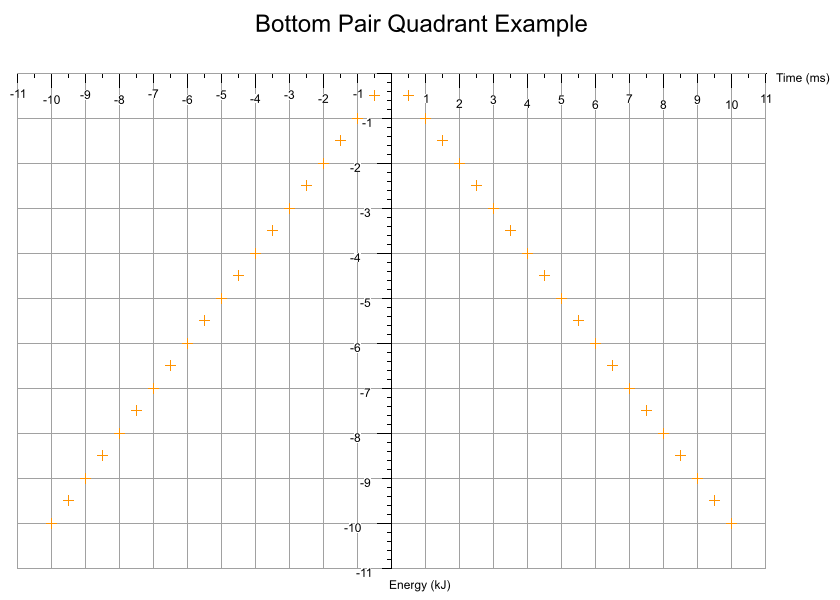
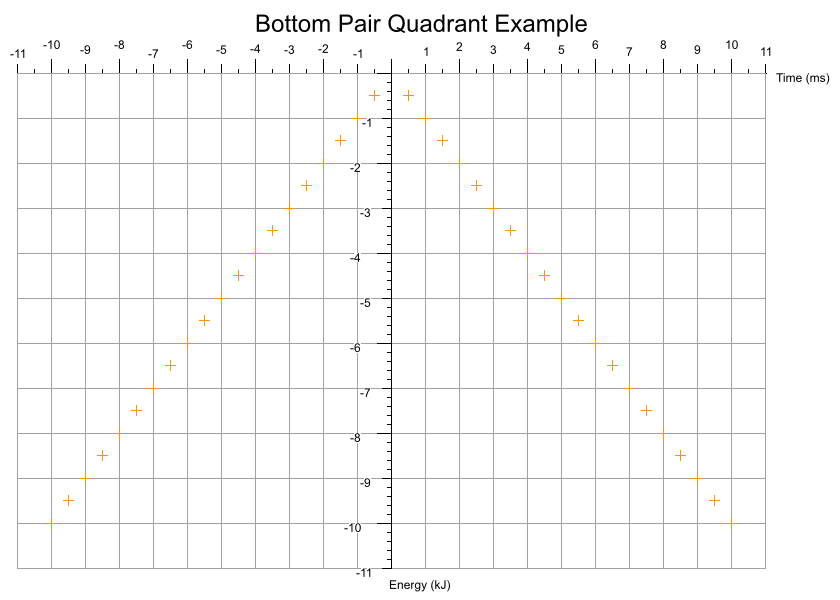
fix: x-axis scale markers now sit outside the axis in whitespace when negative y range is dominant

diff --git a/src/canvas/axes.rs b/src/canvas/axes.rs
@@ -804,10 +804,17 @@ fn draw_x_axis_scale_markings(
 				// Draw each even section slightly longer
 				let label_length_scale = if i & 1 == 1 { 2 } else { 3 };
 				for n in 0..(data_label_length * label_length_scale) {
-					// for n in 0..(data_label_length) {
+					// So that scale markers are not drawn on the graph area itself check which quadrant type
+					// and flip if necessary so they are drawn in the available whitespace outside the axis
+					let px = axis_origin_pixel.0 + (i * x_subdivision_length);
+					let py = if *quadrants == Quadrants::BottomPair {
+						axis_origin_pixel.1 - n
+					} else {
+						axis_origin_pixel.1 + n
+					};
 					canvas.put_pixel(
-						axis_origin_pixel.0 + (i * x_subdivision_length),
-						axis_origin_pixel.1 + n,
+						px,
+						py,
 						Rgba(BLACK),
 					);
 				}
@@ -817,7 +824,13 @@ fn draw_x_axis_scale_markings(
 					let text = (x_value_per_subdivision * i as f32).to_string();
 				let glyphs = create_glyphs(font_size, &text, &font);
 				let origin_x = axis_origin_pixel.0 + (i * x_subdivision_length);
-				let origin_y = axis_origin_pixel.1 + (data_label_length * label_length_scale);
+				// So that scale markers are not drawn on the graph area itself check which quadrant type
+				// and flip if necessary so they are drawn in the available whitespace outside the axis
+				let origin_y = if *quadrants == Quadrants::BottomPair {
+					axis_origin_pixel.1 - (data_label_length * label_length_scale) - (get_maximum_height_of_glyphs(&glyphs) * 3)
+				} else {
+					axis_origin_pixel.1 + (data_label_length * label_length_scale)
+				};
 				// let origin_y = origin_pixel.1 + (data_label_length);
 				let offset = get_x_axis_scale_label_offset(&glyphs, origin_x, origin_y);
 				trace!("Drawing x-axis label {} at {:?}", text, offset);
@@ -834,10 +847,17 @@ fn draw_x_axis_scale_markings(
 							for j in 1..=*mc {
 								let marker_spacing = x_subdivision_length / (mc + 1);
 								for n in 0..data_label_length {
+									let px = axis_origin_pixel.0
+									+ ((i * x_subdivision_length) + (j * marker_spacing));
+									// ensure mrkers are drawn in whitespace
+									let py = if *quadrants == Quadrants::BottomPair {
+										axis_origin_pixel.1 - n
+									} else {
+										axis_origin_pixel.1 + n
+									};
 									canvas.put_pixel(
-										axis_origin_pixel.0
-											+ ((i * x_subdivision_length) + (j * marker_spacing)),
-										axis_origin_pixel.1 + n,
+										px,
+										py,
 										Rgba(BLACK),
 									);
 								}
@@ -852,10 +872,17 @@ fn draw_x_axis_scale_markings(
 				// Draw each even section slightly longer
 				let label_length_scale = if i & 1 == 1 { 2 } else { 3 };
 				for n in 0..(data_label_length * label_length_scale) {
-					// for n in 0..(data_label_length) {
+					// So that scale markers are not drawn on the graph area itself check which quadrant type
+					// and flip if necessary so they are drawn in the available whitespace outside the axis
+					let px = axis_origin_pixel.0 - (i * x_subdivision_length);
+					let py = if *quadrants == Quadrants::BottomPair {
+						axis_origin_pixel.1 - n
+					} else {
+						axis_origin_pixel.1 + n
+					};
 					canvas.put_pixel(
-						axis_origin_pixel.0 - (i * x_subdivision_length),
-						axis_origin_pixel.1 + n,
+						px,
+						py,
 						Rgba(BLACK),
 					);
 				}
@@ -865,7 +892,13 @@ fn draw_x_axis_scale_markings(
 					let text =  (-x_value_per_subdivision * i as f32).to_string();
 				let glyphs = create_glyphs(font_size, &text, &font);
 				let origin_x = axis_origin_pixel.0 - (i * x_subdivision_length);
-				let origin_y = axis_origin_pixel.1 + (data_label_length * label_length_scale);
+				// So that scale markers are not drawn on the graph area itself check which quadrant type
+				// and flip if necessary so they are drawn in the available whitespace outside the axis
+				let origin_y = if *quadrants == Quadrants::BottomPair {
+					axis_origin_pixel.1 - (data_label_length * label_length_scale) - (get_maximum_height_of_glyphs(&glyphs) * 5)
+				} else {
+					axis_origin_pixel.1 + (data_label_length * label_length_scale)
+				};
 				// let origin_y = origin_pixel.1 + (data_label_length);
 				let offset = get_x_axis_scale_label_offset(&glyphs, origin_x, origin_y);
 				trace!("Drawing x-axis label {} at {:?}", text, offset);
@@ -882,10 +915,17 @@ fn draw_x_axis_scale_markings(
 							for j in 1..=*mc {
 								let marker_spacing = x_subdivision_length / (mc + 1);
 								for n in 0..data_label_length {
+									let px = axis_origin_pixel.0
+									- ((i * x_subdivision_length) + (j * marker_spacing));
+									// ensure mrkers are drawn in whitespace
+									let py = if *quadrants == Quadrants::BottomPair {
+										axis_origin_pixel.1 - n
+									} else {
+										axis_origin_pixel.1 + n
+									};
 									canvas.put_pixel(
-										axis_origin_pixel.0
-											- ((i * x_subdivision_length) + (j * marker_spacing)),
-										axis_origin_pixel.1 + n,
+										px,
+										py,
 										Rgba(BLACK),
 									);
 								}
@@ -926,10 +966,17 @@ fn draw_x_axis_scale_markings(
 				// Draw each even section slightly longer
 				let label_length_scale = if i & 1 == 1 { 2 } else { 3 };
 				for n in 0..(data_label_length * label_length_scale) {
-					// for n in 0..(data_label_length) {
+					// So that scale markers are not drawn on the graph area itself check which quadrant type
+					// and flip if necessary so they are drawn in the available whitespace outside the axis
+					let px = axis_min_pixel.0 + (i * x_subdivision_length);
+					let py = if *quadrants == Quadrants::BottomRight {
+						axis_origin_pixel.1 - n
+					} else {
+						axis_origin_pixel.1 + n
+					};
 					canvas.put_pixel(
-						axis_min_pixel.0 + (i * x_subdivision_length),
-						axis_origin_pixel.1 + n,
+						px,
+						py,
 						Rgba(BLACK),
 					);
 				}
@@ -937,7 +984,13 @@ fn draw_x_axis_scale_markings(
 				let text = (x_data_min_max_limits.0 as f32 + (x_value_per_subdivision * i as f32)).to_string();
 				let glyphs = create_glyphs(font_size, &text, &font);
 				let origin_x = axis_min_pixel.0 + (i * x_subdivision_length);
-				let origin_y = axis_origin_pixel.1 + (data_label_length * label_length_scale);
+				// So that scale markers are not drawn on the graph area itself check which quadrant type
+				// and flip if necessary so they are drawn in the available whitespace outside the axis
+				let origin_y = if *quadrants == Quadrants::BottomRight {
+					axis_origin_pixel.1 - (data_label_length * label_length_scale) - (get_maximum_height_of_glyphs(&glyphs) * 3)
+				} else {
+					axis_origin_pixel.1 + (data_label_length * label_length_scale)
+				};
 				// let origin_y = origin_pixel.1 + (data_label_length);
 				let offset = get_x_axis_scale_label_offset(&glyphs, origin_x, origin_y);
 				trace!("Drawing x-axis label {} at {:?}", text, offset);
@@ -953,10 +1006,17 @@ fn draw_x_axis_scale_markings(
 							for j in 1..=*mc {
 								let marker_spacing = x_subdivision_length / (mc + 1);
 								for n in 0..data_label_length {
+									// So that scale markers are not drawn on the graph area itself check which quadrant type
+									// and flip if necessary so they are drawn in the available whitespace outside the axis
+									let px = axis_min_pixel.0 + ((i * x_subdivision_length) + (j * marker_spacing));
+									let py = if *quadrants == Quadrants::BottomRight {
+										axis_origin_pixel.1 - n
+									} else {
+										axis_origin_pixel.1 + n
+									};
 									canvas.put_pixel(
-										axis_min_pixel.0
-											+ ((i * x_subdivision_length) + (j * marker_spacing)),
-										axis_origin_pixel.1 + n,
+										px,
+										py,
 										Rgba(BLACK),
 									);
 								}
